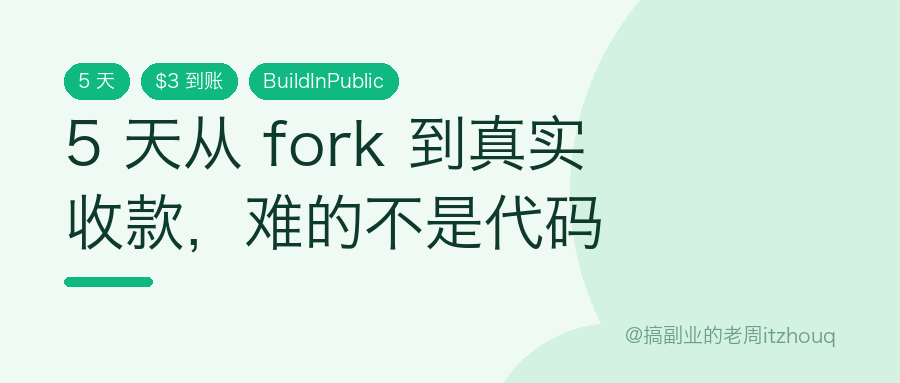
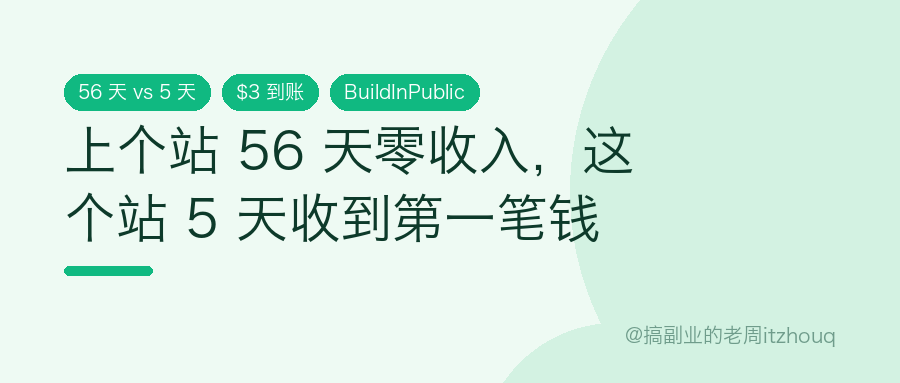
post: stronger title (cross-post contrast hook) + cover sync

Changed region(s): [[0.0622, 0.1436, 0.7156, 0.4595], [0.0622, 0.4883, 0.6844, 0.6606], [0.0622, 0.6893, 0.1867, 0.7467]]

diff --git a/content/posts/voicewove-fork-to-live.md b/content/posts/voicewove-fork-to-live.md
@@ -1,10 +1,10 @@
 ---
-title: 5 天从 fork 到真实收款，难的不是代码
+title: 上个站 56 天零收入，这个站 5 天收到第一笔钱
 date: 2026-10-15
 draft: true
 tags: [独立开发, BuildInPublic, 订阅站, AI语音, NextAuth]
-summary: 把一个开源 AI 语音项目改造成自己的订阅站，5 天收到第一笔真实付款。回头看，真正花时间的不是写代码——一半精力在修上游没人踩过的坑，另一半在合规、支付和品牌这些「跟代码无关」的事上。附完整的踩坑清单和退款全链路验证记录。
-x_hooks: ["5 天从 fork 到收款，开源项目商用难的不是代码", "第一笔 $3 到账又退了：这个订阅站的支付链路才算真的通"]
+summary: 上一个订阅站连续 56 天零收入；这个从 fork 到收到第一笔真实付款只用了 5 天。回头看，真正花时间的不是写代码——一半精力在修上游没人踩过的坑，另一半在合规、支付和品牌这些「跟代码无关」的事上。附完整的踩坑清单和退款全链路验证记录。
+x_hooks: ["5 天从 fork 到真实收款，难的不是代码", "我给自己付了 $3 又退掉：上线前先攻陷自己的支付链路", "接手 3 万文件的开源项目商用，写代码只占三成时间"]
 ---
 
 10 月 11 号凌晨，我把一个开源的 AI 语音项目 fork 了下来。10 月 15 号晚上，我用真实信用卡在这个站上付了 $3，又发起退款，看着数据库里的权益先加上、再扣掉。
